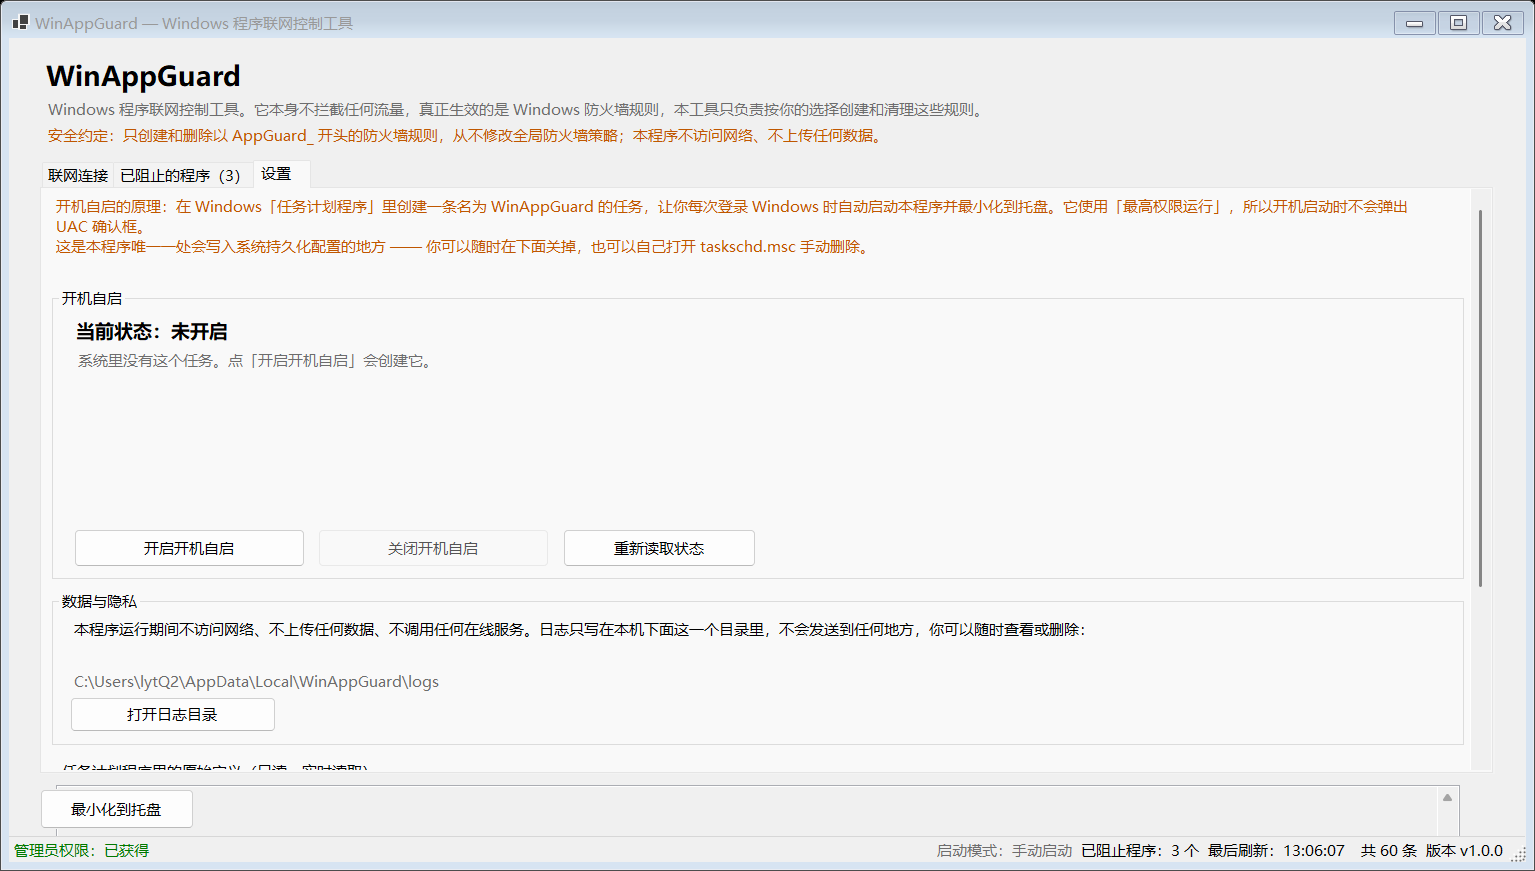
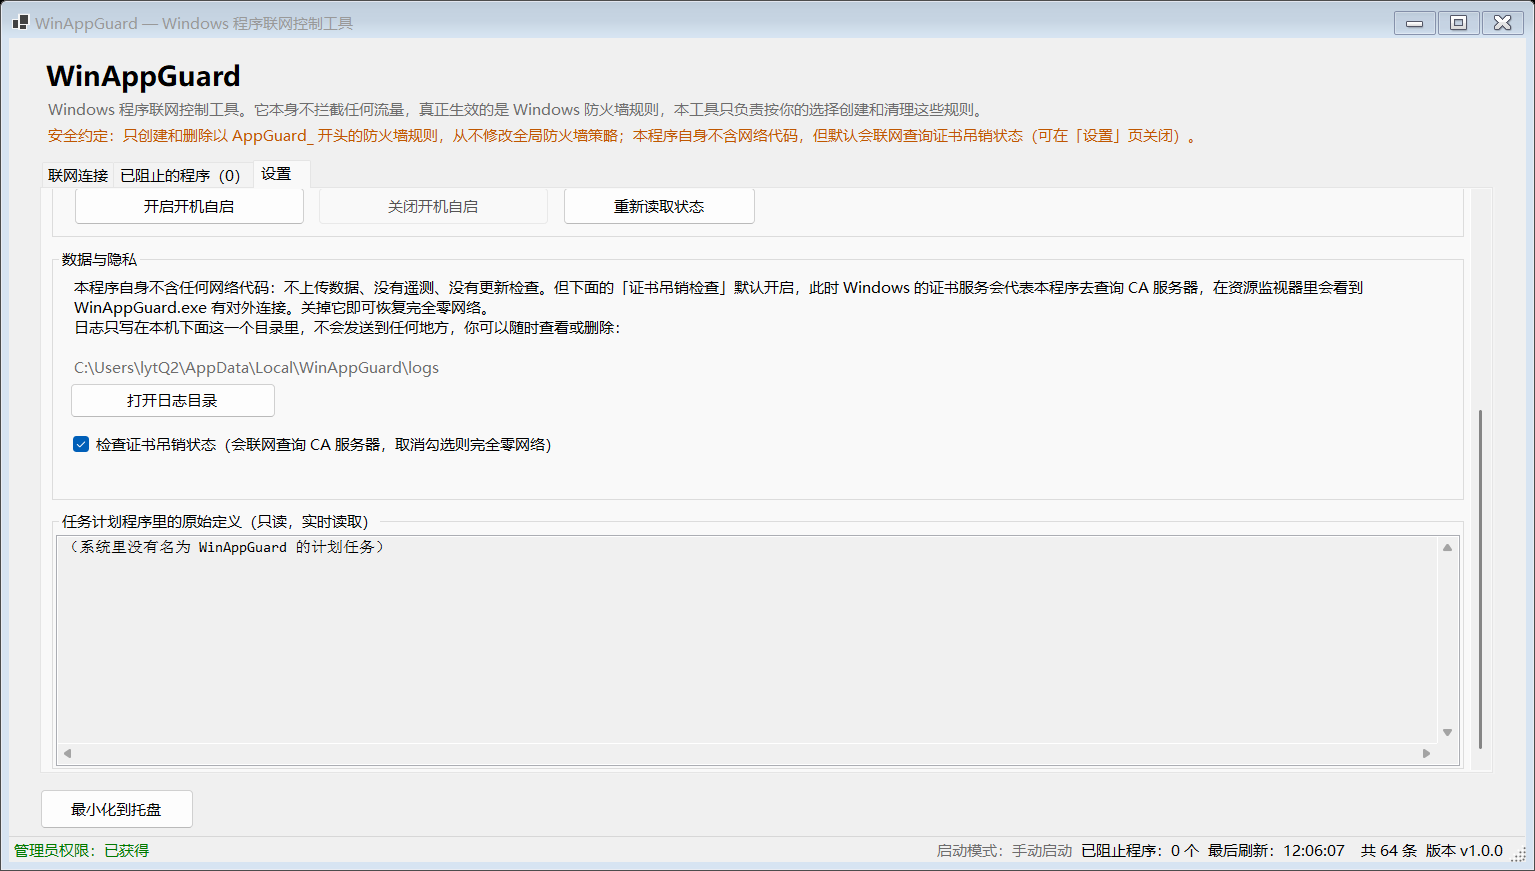
文档更新：修正「不联网」的说法，补版本 1.1.0 与截图
证书吊销检查默认开启，此时 Windows 证书服务会代表本程序去联系 CA 服务器，
在资源监视器里能看到 WinAppGuard.exe 有对外连接 ——
所以原先「本程序不访问网络」的说法已经不再成立，属于必须修正的错误陈述。

统一改为：「本程序自身不含网络代码，但默认会联网查询证书吊销状态，
可在设置页关闭」。这两句都是真的，而且前半句可以用 --audit 验证。

刻意区分两个容易混淆的命题：
  本程序自身不含网络代码 —— 成立（会发起网络行为的类型 = 0）
  本程序不会产生网络流量 —— 默认不成立（默认勾选吊销检查）

涉及 7 处文档：README.md / README.zh-CN.md / SECURITY.md /
docs/安全说明.md / docs/测试用例.md / docs/验收清单.md / docs/发布手册.md，
以及界面顶部那行安全约定。

截图重新生成：旧截图的设置页里还写着「本程序运行期间不访问网络」，
连接页也没有数字签名列。

diff --git a/README.md b/README.md
@@ -24,7 +24,7 @@ from *"what is talking to the internet right now?"* and end with *"blocked"*.
 ## What it does
 
 - **Lists live TCP connections** with program name, full path, PID, local port, remote IP,
-  remote port, state and protocol (IPv4/IPv6).
+  remote port, state, protocol (IPv4/IPv6) and **the program's digital signature**.
 - **Blocks a program** — writes a single outbound Windows Firewall rule (TCP **and** UDP) for
   that executable.
 - **Unblocks it** — deletes the rules it created for that program.
@@ -43,7 +43,24 @@ Being explicit about this matters, because the tool needs administrator rights.
 - ❌ It does **not** touch firewall rules created by anything else. Deletion is hard-limited to
   rules whose name starts with `AppGuard_`.
 - ❌ It does **not** block critical system processes (`lsass.exe`, `svchost.exe`, itself, …).
-- ❌ It does **not** access the network. No telemetry, no update check, no analytics.
+- ❌ It does **not** send anything anywhere. No telemetry, no analytics, no update check.
+- ⚠ **But it does reach the network by default** — see the honest note below.
+
+### About "no network" — the honest version
+
+WinAppGuard's own code contains **zero networking APIs**. That part is verifiable with `--audit`.
+
+However, the **digital signature column** checks certificate revocation status by default. That makes
+Windows' certificate services (Crypt32) contact CA servers on the tool's behalf. You will see
+`WinAppGuard.exe` making outbound connections in Resource Monitor.
+
+- **This is a deliberate trade-off**: checking revocation gives a more accurate answer about whether a
+  certificate has been revoked.
+- **You can turn it off**: *Settings → Data & privacy* → uncheck "check certificate revocation status".
+  The tool then reads only the local revocation cache and makes **no network traffic at all**.
+- It is always **Windows' certificate service** doing the fetching, never application code, and nothing
+  about you or your machine is ever sent — it is a standard CRL/OCSP lookup.
+
 - ❌ It does **not** use the registry for persistence. Auto-start uses Task Scheduler only.
 
 ## Why another firewall tool?
@@ -110,23 +127,33 @@ indirect references and anything the framework drags in — and reports:
 
 ```
 Referenced assemblies        22, all from the .NET framework    → no third-party libraries
-Networking types referenced  0                                   → no networking code
-Native API calls (P/Invoke)  6
+Networking types referenced  0                                   → no networking code in the app
+Native API calls (P/Invoke)  16
 Registry access              none
 ```
 
-Those 6 native calls are the complete set of unmanaged functions the program can reach:
+Those 16 native calls are the complete set of unmanaged functions the program can reach:
 
 ```
-iphlpapi.dll!GetExtendedTcpTable          read the TCP connection table
-kernel32.dll!OpenProcess                  open a process (to resolve its path)
-kernel32.dll!QueryFullProcessImageNameW   query a process's executable path
-kernel32.dll!CloseHandle                  close a handle
-user32.dll!RegisterWindowMessageW         register the single-instance window message
-user32.dll!PostMessageW                   broadcast the single-instance window message
+iphlpapi.dll!GetExtendedTcpTable                    read the TCP connection table
+kernel32.dll!OpenProcess                            open a process (to resolve its path)
+kernel32.dll!QueryFullProcessImageNameW             query a process's executable path
+kernel32.dll!CloseHandle                            close a handle
+user32.dll!RegisterWindowMessageW                   register the single-instance window message
+user32.dll!PostMessageW                             broadcast the single-instance window message
+wintrust.dll!WinVerifyTrust                         verify an embedded Authenticode signature
+wintrust.dll!CryptCATAdminAcquireContext2           open a catalog-signature context
+wintrust.dll!CryptCATAdminCalcHashFromFileHandle2   hash a file (to look it up in a catalog)
+wintrust.dll!CryptCATAdminEnumCatalogFromHash       find the catalog containing that hash
+wintrust.dll!CryptCATCatalogInfoFromContext         read the catalog file path
+wintrust.dll!CryptCATAdminReleaseCatalogContext     release the catalog context
+wintrust.dll!CryptCATAdminReleaseContext            release the catalog admin context
+wintrust.dll!WTHelperProvDataFromStateData          read data from a verification state
+wintrust.dll!WTHelperGetProvSignerFromChain         read the signer
+wintrust.dll!WTHelperGetProvCertFromChain           read the signer's certificate
 ```
 
-Six. It cannot reach anything else below the .NET runtime.
+16. It cannot reach anything else below the .NET runtime.
 
 ## Safety guards
 

diff --git a/SECURITY.md b/SECURITY.md
@@ -53,8 +53,10 @@ This tool deliberately modifies system state, so the boundary matters.
   changing default inbound/outbound actions).
 - Any code path that registers persistence other than the single scheduled task
   named `WinAppGuard` (for example a registry `Run` key).
-- Any outbound network traffic initiated by the application. **It is designed to make none.**
-  See "Verifying the claims" below.
+- Any network traffic that goes to a destination **other than a certificate authority's CRL/OCSP
+  endpoint**, or that carries any data about the user or their machine. The default certificate
+  revocation lookup is intended and documented; anything beyond it is a vulnerability.
+- Sending any user data anywhere, ever.
 - Any path traversal / argument injection that makes the tool operate on something
   other than the executable path the user selected.
 - Privilege escalation beyond the administrator rights the tool already requests.
@@ -73,24 +75,37 @@ The expected result for a released build:
 
 ```
 Referenced assemblies        22, all from the .NET framework   → no third-party libraries
-Networking types referenced  0                                  → no networking code
-Native API calls (P/Invoke)  6
+Networking types referenced  0                                  → no networking code in the app
+Native API calls (P/Invoke)  16
 Registry access              none
 ```
 
-Those 6 native calls are the complete set of non-managed functions the program can reach:
+Those 16 native calls are the complete set of non-managed functions the program can reach:
 
 ```
-iphlpapi.dll!GetExtendedTcpTable          read the TCP connection table
-kernel32.dll!OpenProcess                  open a process (to resolve its path)
-kernel32.dll!QueryFullProcessImageNameW   query a process's executable path
-kernel32.dll!CloseHandle                  close a handle
-user32.dll!RegisterWindowMessageW         register the single-instance window message
-user32.dll!PostMessageW                   broadcast the single-instance window message
+iphlpapi.dll!GetExtendedTcpTable                    read the TCP connection table
+kernel32.dll!OpenProcess                            open a process (to resolve its path)
+kernel32.dll!QueryFullProcessImageNameW             query a process's executable path
+kernel32.dll!CloseHandle                            close a handle
+user32.dll!RegisterWindowMessageW                   register the single-instance window message
+user32.dll!PostMessageW                             broadcast the single-instance window message
+wintrust.dll!WinVerifyTrust                         verify an embedded Authenticode signature
+wintrust.dll!CryptCATAdminAcquireContext2           open a catalog-signature context
+wintrust.dll!CryptCATAdminCalcHashFromFileHandle2   hash a file (to look it up in a catalog)
+wintrust.dll!CryptCATAdminEnumCatalogFromHash       find the catalog containing that hash
+wintrust.dll!CryptCATCatalogInfoFromContext         read the catalog file path
+wintrust.dll!CryptCATAdminReleaseCatalogContext     release the catalog context
+wintrust.dll!CryptCATAdminReleaseContext            release the catalog admin context
+wintrust.dll!WTHelperProvDataFromStateData          read data from a verification state
+wintrust.dll!WTHelperGetProvSignerFromChain         read the signer
+wintrust.dll!WTHelperGetProvCertFromChain           read the signer's certificate
 ```
 
-You can also watch the process while it runs: open **Resource Monitor → Network** and look
-for `WinAppGuard.exe`. It should never appear. Detailed per-claim verification steps are in
+You can also watch the process while it runs: open **Resource Monitor → Network** and look for
+`WinAppGuard.exe`. If certificate revocation checking is **off** (Settings → Data & privacy) it should
+never appear. With it **on** (the default) you will see CA lookups — that is expected, and is Windows'
+certificate service, not application code.
+Detailed per-claim verification steps are in
 [`docs/安全说明.md`](docs/安全说明.md) (Chinese; each claim has a copy-pasteable check).
 
 ## Release integrity

diff --git a/docs/安全说明.md b/docs/安全说明.md
@@ -22,13 +22,17 @@ WinAppGuard.SelfCheck.exe --audit
 
 ```
 引用的程序集          22 个，全部来自 .NET 框架     → 零第三方库
-会发起网络行为的类型   0 个                          → 零网络代码
-原生 API 调用（P/Invoke）  6 个
+会发起网络行为的类型   0 个                          → 程序自身零网络代码
+原生 API 调用（P/Invoke）  16 个
 注册表访问             无
 ```
 
-那 6 个原生调用就是程序能碰到的**全部**非托管函数，逐条列出来带着用途。
+那 16 个原生调用就是程序能碰到的**全部**非托管函数，逐条列出来带着用途。
 除此之外它碰不到任何系统底层。
+
+**⚠ 但要分清两件事**：「程序自身不含网络代码」和「程序不会产生网络流量」不是一回事。
+数字签名那一列默认会检查证书吊销状态，此时 Windows 的证书服务会代表本程序去联系 CA 服务器 ——
+详见下方第 6 条的完整说明和自查方法。
 
 `--audit` 是唯一一个**不需要管理员权限**的模式 —— 刻意这样设计，
 好让它能在 CI（无法弹 UAC）里跑。
@@ -136,7 +140,7 @@ Get-NetFirewallProfile | Select-Object Name, Enabled, DefaultInboundAction, Defa
 
 ---
 
-### 6. 不上传用户数据
+### 6. 不发送用户数据
 
 **实现**：程序里**没有任何网络代码**。没有 `HttpClient`、没有 `Socket`、没有 `WebRequest`、
 没有遥测、没有崩溃上报。可以自行搜索源码确认：
@@ -146,7 +150,35 @@ Select-String -Path .\src\WinAppGuard\**\*.cs -Pattern 'HttpClient|WebClient|Soc
 # 唯一会出现的是 ConnectionScanner 里读连接表用的 System.Net.IPAddress（只是数据格式化，不发起任何连接）
 ```
 
+**⚠ 必须区分两件事**：
+
+| | 成立吗 |
+|---|---|
+| 本程序**自身不含网络代码** | ✅ 成立，可用 `--audit` 验证（会发起网络行为的类型 = 0） |
+| 本程序**不会产生任何网络流量** | ⚠ **默认不成立** —— 见下 |
+
+### 6.1 证书吊销检查会联网（默认开启）
+
+「数字签名」这一列默认会检查证书吊销状态。此时 **Windows 的证书服务（Crypt32）
+会代表本程序去联系 CA 服务器**查询 CRL / OCSP。在资源监视器里，这些连接**记在
+`WinAppGuard.exe` 名下** —— 虽然不是本程序的代码发起的，但从观察者的角度看是一样的。
+
+**为什么这么设计**：不查吊销的话，一张已经被吊销的证书仍会被判定为「签名有效」，
+结论不可靠。
+
+**怎么关掉**：「设置 → 数据与隐私」→ 取消勾选「检查证书吊销状态（会联网查询 CA 服务器）」。
+关掉之后使用 `WTD_CACHE_ONLY_URL_RETRIEVAL`，只读本机缓存，**完全不留任何网络流量**。
+
 **自己验证**：
+
+```powershell
+# 1) 打开资源监视器 → 网络 → 在「网络活动」里找 WinAppGuard.exe
+#    设置页勾选吊销检查时：能看到它连接 CA 服务器
+#    取消勾选后：完全消失
+# 2) 或者用抓包工具按进程过滤，观察同样的差异
+```
+
+**关掉之后**：
 
 1. 打开「资源监视器」→「网络」标签 → 在「网络活动」里找 `WinAppGuard.exe`；
 2. 或用 Wireshark 按进程过滤；

diff --git a/docs/测试用例.md b/docs/测试用例.md
@@ -464,8 +464,8 @@ WinAppGuard.SelfCheck.exe --autostart-disable    # 清理残留
 
 | # | 检查项 | 预期 |
 |---|---|---|
-| 7.12 | 「设置」页 →「数据与隐私」 | 明确写出「不访问网络、不上传任何数据」，并**显示日志实际路径** |
-| 7.13 | 资源监视器 → 网络 → 找 `WinAppGuard.exe` | **没有任何由它发起的连接** |
+| 7.12 | 「设置」页 →「数据与隐私」 | 明确写出「本程序自身不含网络代码」，并**说明证书吊销检查会联网、可以关闭**，以及日志的实际路径 |
+| 7.13 | 资源监视器 → 网络 → 找 `WinAppGuard.exe` | 勾选吊销检查时：能看到它连 CA 服务器；**取消勾选后：完全消失** |
 | 7.14 | `docs/安全说明.md` 的每一条自查方法 | 照着做都能得到文档里说的结果 |
 
 ### 发布物
@@ -553,22 +553,32 @@ WinAppGuard.SelfCheck.exe --audit <WinAppGuard.dll 路径>
 |---|---|---|---|
 | 8.1 | 引用的程序集 | 全部来自 .NET 框架 | ✅ 22 个，无第三方 |
 | 8.2 | 会发起网络行为的类型 | 0 个 | ✅ 0 个 |
-| 8.3 | 原生 API 调用（P/Invoke） | 清单稳定、每一项都有明确用途 | ✅ 6 个 |
+| 8.3 | 原生 API 调用（P/Invoke） | 清单稳定、每一项都有明确用途 | ✅ 16 个 |
 | 8.4 | 注册表访问 | 无（自启用计划任务，不用 Run 键） | ✅ 无 |
 | 8.5 | 文件写入 | 只有 `File.AppendAllText`（日志） | ✅ 符合 |
 
 **实测到的全部原生调用**：
 
 ```
-iphlpapi.dll!GetExtendedTcpTable          读 TCP 连接表
-kernel32.dll!OpenProcess                  打开进程（查路径）
-kernel32.dll!QueryFullProcessImageNameW   查进程可执行文件路径
-kernel32.dll!CloseHandle                  关句柄
-user32.dll!RegisterWindowMessageW         注册单实例消息
-user32.dll!PostMessageW                   广播单实例消息
+iphlpapi.dll!GetExtendedTcpTable                    读 TCP 连接表
+kernel32.dll!OpenProcess                            打开进程（查路径）
+kernel32.dll!QueryFullProcessImageNameW             查进程可执行文件路径
+kernel32.dll!CloseHandle                            关句柄
+user32.dll!RegisterWindowMessageW                   注册单实例消息
+user32.dll!PostMessageW                             广播单实例消息
+wintrust.dll!WinVerifyTrust                         验证内嵌数字签名
+wintrust.dll!CryptCATAdminAcquireContext2           打开目录签名上下文
+wintrust.dll!CryptCATAdminCalcHashFromFileHandle2   算文件哈希
+wintrust.dll!CryptCATAdminEnumCatalogFromHash       按哈希找所属目录
+wintrust.dll!CryptCATCatalogInfoFromContext         取目录文件路径
+wintrust.dll!CryptCATAdminReleaseCatalogContext     释放目录上下文
+wintrust.dll!CryptCATAdminReleaseContext            释放目录管理上下文
+wintrust.dll!WTHelperProvDataFromStateData          从验证状态取数据
+wintrust.dll!WTHelperGetProvSignerFromChain         取签名者
+wintrust.dll!WTHelperGetProvCertFromChain           取签名者证书
 ```
 
-**6 个。** 除此之外程序碰不到任何系统底层。
+**16 个。** 除此之外程序碰不到任何系统底层。
 
 ### 自动化断言汇总
 

diff --git a/docs/验收清单.md b/docs/验收清单.md
@@ -17,7 +17,7 @@ WinAppGuard.SelfCheck.exe --audit ..\src\WinAppGuard\bin\Release\net10.0-windows
 |---|---|
 | **零第三方库** | ✅ 引用的 22 个程序集**全部**来自 .NET 框架（`System.*` / `Microsoft.*`） |
 | **零网络代码** | ✅ 没有引用任何会发起网络行为的类型 |
-| 原生 API 调用总数 | ✅ **只有 6 个** |
+| 原生 API 调用总数 | ✅ **只有 16 个** |
 | 注册表访问 | ✅ **完全没有** |
 | 文件写入 | ✅ 只有 `File.AppendAllText`，用于日志 |
 
@@ -170,7 +170,7 @@ user32.dll!PostMessageW                  广播单实例消息
 | 项目 | 结论 |
 |---|---|
 | 自动化断言总数 | **120 项全部通过**（状态机 25 + 布局 20 + 加固 21 + 单实例 12 + 防火墙 42） |
-| 出厂审计 | 零第三方库、零网络代码、6 个原生 API、无注册表访问 |
+| 出厂审计 | 零第三方库、零网络代码、16 个原生 API、无注册表访问 |
 | 手动验证项 | 待勾选（A~G 共 58 条） |
 | 已知未验证项 | 见下方 |
 

diff --git a/docs/发布手册.md b/docs/发布手册.md
@@ -87,7 +87,8 @@ powershell -ExecutionPolicy Bypass -File .\tools\publish-check.ps1
 要看到：
 
 - **零第三方库**：引用的程序集全部来自 .NET 框架
-- **零网络代码**：没有引用任何会发起网络行为的类型
+- **程序自身零网络代码**：没有引用任何会发起网络行为的类型
+  （注意：这不等于「不产生网络流量」—— 证书吊销检查默认开启，Windows 证书服务会代表程序联网）
 - P/Invoke 清单与上一次发布相比没有意外新增
 
 > 为什么审计的是 DLL 而不是 exe：单文件 exe 是宿主程序，我们的代码被打包在里面，
